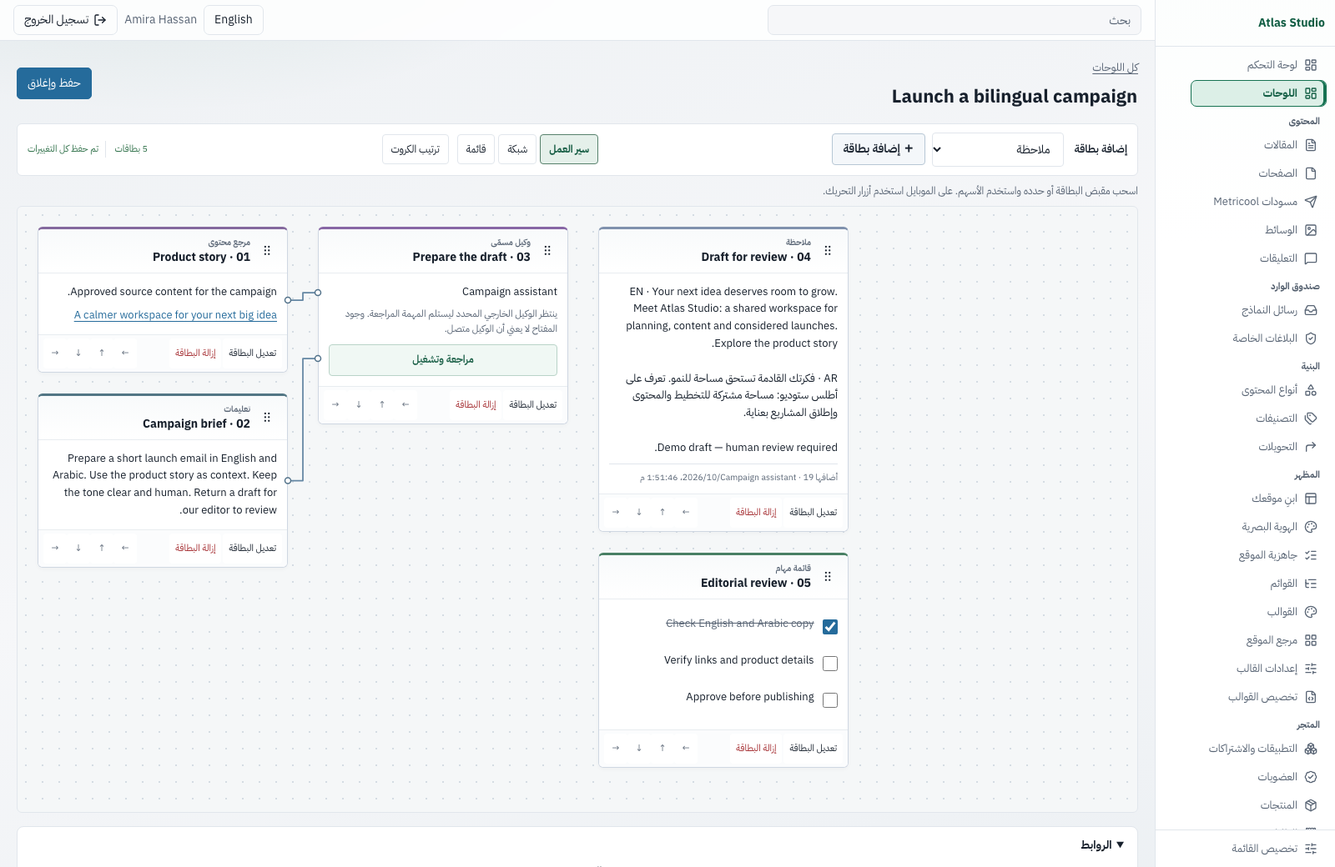
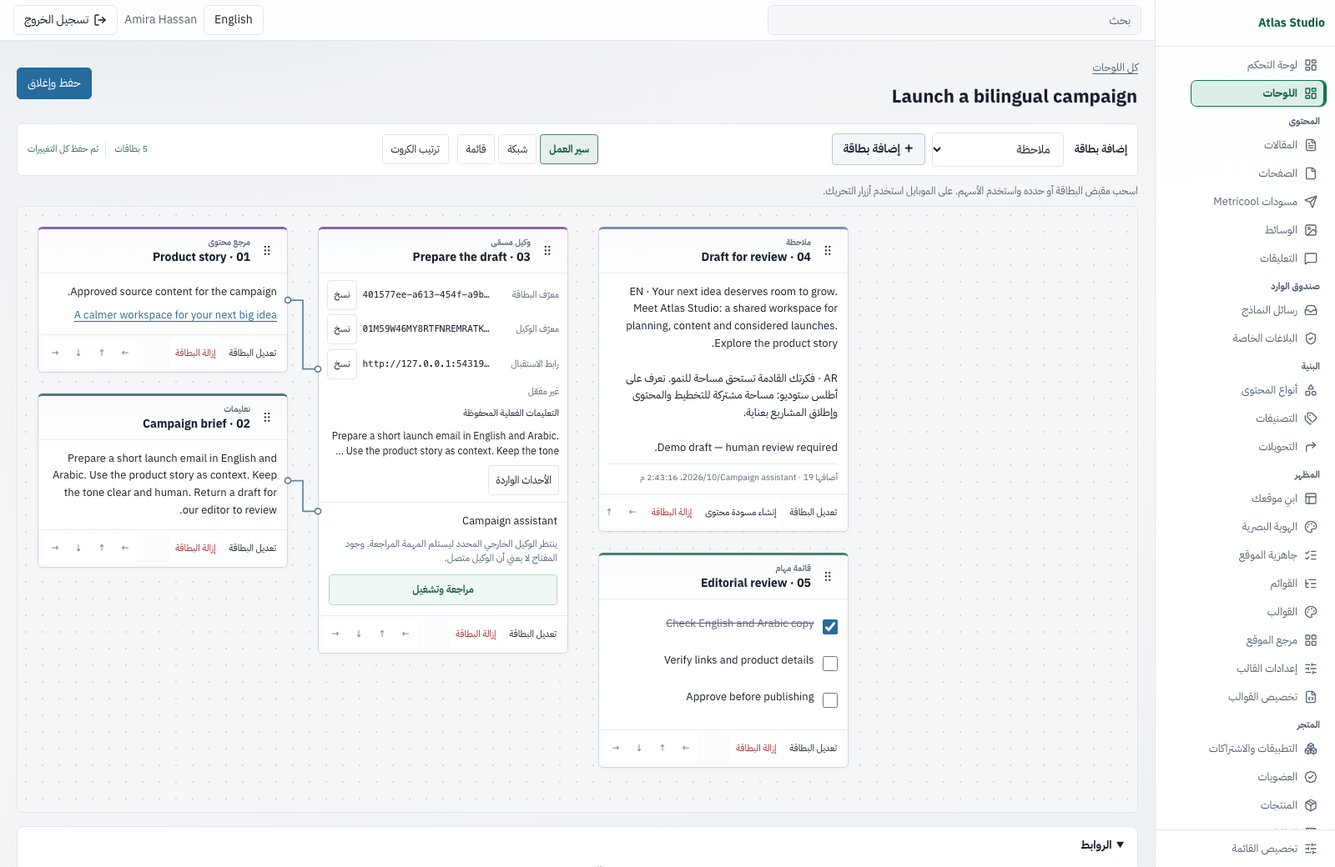
Verify signed event journeys and refresh current canvas documentation screens

diff --git a/web/admin/templates/pages/canvases/editor.html b/web/admin/templates/pages/canvases/editor.html
@@ -13,7 +13,7 @@
 <script defer src="{{asset "canvas.js"}}"></script>
 <section class="canvas-workspace" id="canvas-editor" data-id="{{.Board.ID}}">
  <input type="hidden" name="_csrf" value="{{csrf}}">
- <div hidden data-canvas-labels><span data-label="inbound_settings">{{t "canvasinbound.inbound_settings"}}</span><span data-label="inbound_card_id">{{t "canvasinbound.inbound_card_id"}}</span><span data-label="inbound_agent_id">{{t "canvasinbound.inbound_agent_id"}}</span><span data-label="inbound_provider_id">{{t "canvasinbound.inbound_provider_id"}}</span><span data-label="inbound_model">{{t "canvasinbound.inbound_model"}}</span><span data-label="inbound_webhook">{{t "canvasinbound.inbound_webhook"}}</span><span data-label="inbound_not_selected">{{t "canvasinbound.inbound_not_selected"}}</span><span data-label="inbound_unconfigured">{{t "canvasinbound.inbound_unconfigured"}}</span><span data-label="inbound_enabled">{{t "canvasinbound.inbound_enabled"}}</span><span data-label="inbound_disabled">{{t "canvasinbound.inbound_disabled"}}</span><span data-label="inbound_needs_review">{{t "canvasinbound.inbound_needs_review"}}</span><span data-label="inbound_loading">{{t "canvasinbound.inbound_loading"}}</span><span data-label="inbound_unavailable">{{t "canvasinbound.inbound_unavailable"}}</span><span data-label="inbound_copy">{{t "canvasinbound.inbound_copy"}}</span><span data-label="inbound_copied">{{t "canvasinbound.inbound_copied"}}</span><span data-label="inbound_manual_copy">{{t "canvasinbound.inbound_manual_copy"}}</span><span data-label="inbound_help">{{t "canvasinbound.inbound_help"}}</span><span data-label="inbound_command">{{t "canvasinbound.inbound_command"}}</span><span data-label="inbound_command_help">{{t "canvasinbound.inbound_command_help"}}</span><span data-label="inbound_prompt">{{t "canvasinbound.inbound_prompt"}}</span><span data-label="inbound_prompt_edit_help">{{t "canvasinbound.inbound_prompt_edit_help"}}</span><span data-label="inbound_prompt_graph_help">{{t "canvasinbound.inbound_prompt_graph_help"}}</span><span data-label="inbound_edit_linked_prompt">{{t "canvasinbound.inbound_edit_linked_prompt"}}</span><span data-label="inbound_prompt_required">{{t "canvasinbound.inbound_prompt_required"}}</span><span data-label="inbound_save_disabled">{{t "canvasinbound.inbound_save_disabled"}}</span><span data-label="inbound_review">{{t "canvasinbound.inbound_review"}}</span><span data-label="inbound_review_title">{{t "canvasinbound.inbound_review_title"}}</span><span data-label="inbound_save_first">{{t "canvasinbound.inbound_save_first"}}</span><span data-label="inbound_enable">{{t "canvasinbound.inbound_enable"}}</span><span data-label="inbound_consent">{{t "canvasinbound.inbound_consent"}}</span><span data-label="inbound_disable">{{t "canvasinbound.inbound_disable"}}</span><span data-label="inbound_rotate">{{t "canvasinbound.inbound_rotate"}}</span><span data-label="inbound_rotate_confirm">{{t "canvasinbound.inbound_rotate_confirm"}}</span><span data-label="inbound_secret_title">{{t "canvasinbound.inbound_secret_title"}}</span><span data-label="inbound_signing_secret">{{t "canvasinbound.inbound_signing_secret"}}</span><span data-label="inbound_secret_help">{{t "canvasinbound.inbound_secret_help"}}</span><span data-label="inbound_copy_secret">{{t "canvasinbound.inbound_copy_secret"}}</span><span data-label="inbound_event_body">{{t "canvasinbound.inbound_event_body"}}</span><span data-label="inbound_external_help">{{t "canvasinbound.inbound_external_help"}}</span><span data-label="inbound_managed_help">{{t "canvasinbound.inbound_managed_help"}}</span><span data-label="inbound_error">{{t "canvasinbound.inbound_error"}}</span><span data-label="inbound_changed">{{t "canvasinbound.inbound_changed"}}</span><span data-label="inbound_reauthenticate">{{t "canvasinbound.inbound_reauthenticate"}}</span><span data-label="inbound_sender_guide">{{t "canvasinbound.inbound_sender_guide"}}</span><span data-label="inbound_close">{{t "canvasinbound.inbound_close"}}</span><span data-label="create_draft">{{t "canvaslife.create_draft"}}</span><span data-label="new_draft">{{t "canvaslife.new_draft"}}</span><span data-label="draft_help">{{t "canvaslife.draft_help"}}</span><span data-label="content_type">{{t "canvaslife.content_type"}}</span><span data-label="draft_error">{{t "canvaslife.draft_error"}}</span><span data-label="save_template">{{t "canvaslife.save_template"}}</span><span data-label="templates">{{t "canvaslife.templates"}}</span><span data-label="template_safety">{{t "canvaslife.template_safety"}}</span><span data-label="template_help">{{t "canvaslife.template_help"}}</span><span data-label="template_name">{{t "canvaslife.template_name"}}</span><span data-label="template_board_title">{{t "canvaslife.template_board_title"}}</span><span data-label="templates_empty">{{t "canvaslife.templates_empty"}}</span><span data-label="reuse_template">{{t "canvaslife.reuse_template"}}</span><span data-label="delete_template">{{t "canvaslife.delete_template"}}</span><span data-label="delete_template_confirm">{{t "canvaslife.delete_template_confirm"}}</span><span data-label="template_saved">{{t "canvaslife.template_saved"}}</span><span data-label="lifecycle_error">{{t "canvaslife.lifecycle_error"}}</span><span data-label="cancel_run">{{t "canvasops.cancel_run"}}</span><span data-label="cancel_run_help">{{t "canvasops.cancel_run_help"}}</span><span data-label="cancelled">{{t "canvasops.cancelled"}}</span><span data-label="reviewed">{{t "canvasops.reviewed"}}</span><span data-label="run_stopped">{{t "canvasops.run_stopped"}}</span><span data-label="generation_kind">{{t "canvasops.generation_kind"}}</span><span data-label="text">{{t "canvasops.text"}}</span><span data-label="image">{{t "canvasops.image"}}</span><span data-label="video">{{t "canvasops.video"}}</span><span data-label="render">{{t "canvasops.render"}}</span><span data-label="preset_skill">{{t "canvasops.preset_skill"}}</span><span data-label="no_skill">{{t "canvasops.no_skill"}}</span><span data-label="result">{{t "canvasops.result"}}</span><span data-label="waiting">{{t "canvasops.waiting"}}</span><span data-label="check_result">{{t "canvasops.check_result"}}</span><span data-label="private_media">{{t "canvasops.private_media"}}</span><span data-label="media_error">{{t "canvasops.media_error"}}</span><span data-label="configure_destinations">{{t "canvasops.configure_destinations"}}</span><span data-label="preset">{{t "canvasops.preset"}}</span><span data-label="blank">{{t "canvasops.blank"}}</span><span data-label="ask-content">{{t "canvasops.ask-content"}}</span><span data-label="prepublish-review">{{t "canvasops.prepublish-review"}}</span><span data-label="social-drafts">{{t "canvasops.social-drafts"}}</span><span data-label="periodic-brief">{{t "canvasops.periodic-brief"}}</span><span data-label="evidence-worksheet">{{t "canvasops.evidence-worksheet"}}</span><span data-label="story-video">{{t "canvasops.story-video"}}</span><span data-label="preset_help">{{t "canvasops.preset_help"}}</span><span data-label="apply_preset">{{t "canvasops.apply_preset"}}</span><span data-label="preset_target">{{t "canvasops.preset_target"}}</span><span data-label="preset_ready">{{t "canvasops.preset_ready"}}</span><span data-label="preset_incomplete">{{t "canvasops.preset_incomplete"}}</span><span data-label="operations">{{t "canvasops.operations"}}</span><span data-label="ops_source">{{t "canvasops.ops_source"}}</span><span data-label="prompt">{{t "canvasops.prompt"}}</span><span data-label="provider">{{t "canvasops.provider"}}</span><span data-label="agent">{{t "canvasops.agent"}}</span><span data-label="schedule">{{t "canvasops.schedule"}}</span><span data-label="source_type">{{t "canvasops.source_type"}}</span><span data-label="source_limit">{{t "canvasops.source_limit"}}</span><span data-label="source_help">{{t "canvasops.source_help"}}</span><span data-label="provider_help">{{t "canvasops.provider_help"}}</span><span data-label="agent_help">{{t "canvasops.agent_help"}}</span><span data-label="interval">{{t "canvasops.interval"}}</span><span data-label="hourly">{{t "canvasops.hourly"}}</span><span data-label="daily">{{t "canvasops.daily"}}</span><span data-label="weekly">{{t "canvasops.weekly"}}</span><span data-label="schedule_help">{{t "canvasops.schedule_help"}}</span><span data-label="connections">{{t "canvasops.connections"}}</span><span data-label="from">{{t "canvasops.from"}}</span><span data-label="to">{{t "canvasops.to"}}</span><span data-label="connect">{{t "canvasops.connect"}}</span><span data-label="disconnect">{{t "canvasops.disconnect"}}</span><span data-label="no_connections">{{t "canvasops.no_connections"}}</span><span data-label="connection_error">{{t "canvasops.connection_error"}}</span><span data-label="review_run">{{t "canvasops.review_run"}}</span><span data-label="review">{{t "canvasops.review"}}</span><span data-label="destination">{{t "canvasops.destination"}}</span><span data-label="context">{{t "canvasops.context"}}</span><span data-label="run">{{t "canvasops.run"}}</span><span data-label="consent">{{t "canvasops.consent"}}</span><span data-label="enable_schedule">{{t "canvasops.enable_schedule"}}</span><span data-label="disable_schedule">{{t "canvasops.disable_schedule"}}</span><span data-label="recurring_consent">{{t "canvasops.recurring_consent"}}</span><span data-label="history">{{t "canvasops.history"}}</span><span data-label="no_runs">{{t "canvasops.no_runs"}}</span><span data-label="refresh_runs">{{t "canvasops.refresh_runs"}}</span><span data-label="requested">{{t "canvasops.requested"}}</span><span data-label="waiting_agent">{{t "canvasops.waiting_agent"}}</span><span data-label="queued">{{t "canvasops.queued"}}</span><span data-label="running">{{t "canvasops.running"}}</span><span data-label="succeeded">{{t "canvasops.succeeded"}}</span><span data-label="failed">{{t "canvasops.failed"}}</span><span data-label="uncertain">{{t "canvasops.uncertain"}}</span><span data-label="show_result">{{t "canvasops.show_result"}}</span><span data-label="disabled">{{t "canvasops.disabled"}}</span><span data-label="enabled">{{t "canvasops.enabled"}}</span><span data-label="needs_review">{{t "canvasops.needs_review"}}</span><span data-label="sharing">{{t "canvasops.sharing"}}</span><span data-label="sharing_help">{{t "canvasops.sharing_help"}}</span><span data-label="shared_nodes">{{t "canvasops.shared_nodes"}}</span><span data-label="read_grant">{{t "canvasops.read_grant"}}</span><span data-label="append_grant">{{t "canvasops.append_grant"}}</span><span data-label="run_grant">{{t "canvasops.run_grant"}}</span><span data-label="save_grant">{{t "canvasops.save_grant"}}</span><span data-label="revoke_grant">{{t "canvasops.revoke_grant"}}</span><span data-label="grant_saved">{{t "canvasops.grant_saved"}}</span><span data-label="unconfigured">{{t "canvasops.unconfigured"}}</span><span data-label="operations_error">{{t "canvasops.operations_error"}}</span><span data-label="operations_loading">{{t "canvasops.operations_loading"}}</span><span data-label="save_first">{{t "canvasops.save_first"}}</span><span data-label="reload_result">{{t "canvasops.reload_result"}}</span><span data-label="attributed">{{t "canvasops.attributed"}}</span><span data-label="schedule_inactive">{{t "canvasops.schedule_inactive"}}</span><span data-label="none">{{t "canvasops.none"}}</span><span data-label="run_confirmed">{{t "canvasops.run_confirmed"}}</span> <span data-label="title">{{t "admin.canvas.title"}}</span>
+ <div hidden data-canvas-labels><span data-label="inbound_effective_prompt">{{t "canvasinbound.inbound_effective_prompt"}}</span><span data-label="inbound_settings">{{t "canvasinbound.inbound_settings"}}</span><span data-label="inbound_card_id">{{t "canvasinbound.inbound_card_id"}}</span><span data-label="inbound_agent_id">{{t "canvasinbound.inbound_agent_id"}}</span><span data-label="inbound_provider_id">{{t "canvasinbound.inbound_provider_id"}}</span><span data-label="inbound_model">{{t "canvasinbound.inbound_model"}}</span><span data-label="inbound_webhook">{{t "canvasinbound.inbound_webhook"}}</span><span data-label="inbound_not_selected">{{t "canvasinbound.inbound_not_selected"}}</span><span data-label="inbound_unconfigured">{{t "canvasinbound.inbound_unconfigured"}}</span><span data-label="inbound_enabled">{{t "canvasinbound.inbound_enabled"}}</span><span data-label="inbound_disabled">{{t "canvasinbound.inbound_disabled"}}</span><span data-label="inbound_needs_review">{{t "canvasinbound.inbound_needs_review"}}</span><span data-label="inbound_loading">{{t "canvasinbound.inbound_loading"}}</span><span data-label="inbound_unavailable">{{t "canvasinbound.inbound_unavailable"}}</span><span data-label="inbound_copy">{{t "canvasinbound.inbound_copy"}}</span><span data-label="inbound_copied">{{t "canvasinbound.inbound_copied"}}</span><span data-label="inbound_manual_copy">{{t "canvasinbound.inbound_manual_copy"}}</span><span data-label="inbound_help">{{t "canvasinbound.inbound_help"}}</span><span data-label="inbound_command">{{t "canvasinbound.inbound_command"}}</span><span data-label="inbound_command_help">{{t "canvasinbound.inbound_command_help"}}</span><span data-label="inbound_prompt">{{t "canvasinbound.inbound_prompt"}}</span><span data-label="inbound_prompt_edit_help">{{t "canvasinbound.inbound_prompt_edit_help"}}</span><span data-label="inbound_prompt_graph_help">{{t "canvasinbound.inbound_prompt_graph_help"}}</span><span data-label="inbound_edit_linked_prompt">{{t "canvasinbound.inbound_edit_linked_prompt"}}</span><span data-label="inbound_prompt_required">{{t "canvasinbound.inbound_prompt_required"}}</span><span data-label="inbound_save_disabled">{{t "canvasinbound.inbound_save_disabled"}}</span><span data-label="inbound_review">{{t "canvasinbound.inbound_review"}}</span><span data-label="inbound_review_title">{{t "canvasinbound.inbound_review_title"}}</span><span data-label="inbound_save_first">{{t "canvasinbound.inbound_save_first"}}</span><span data-label="inbound_enable">{{t "canvasinbound.inbound_enable"}}</span><span data-label="inbound_consent">{{t "canvasinbound.inbound_consent"}}</span><span data-label="inbound_disable">{{t "canvasinbound.inbound_disable"}}</span><span data-label="inbound_rotate">{{t "canvasinbound.inbound_rotate"}}</span><span data-label="inbound_rotate_confirm">{{t "canvasinbound.inbound_rotate_confirm"}}</span><span data-label="inbound_secret_title">{{t "canvasinbound.inbound_secret_title"}}</span><span data-label="inbound_signing_secret">{{t "canvasinbound.inbound_signing_secret"}}</span><span data-label="inbound_secret_help">{{t "canvasinbound.inbound_secret_help"}}</span><span data-label="inbound_copy_secret">{{t "canvasinbound.inbound_copy_secret"}}</span><span data-label="inbound_event_body">{{t "canvasinbound.inbound_event_body"}}</span><span data-label="inbound_external_help">{{t "canvasinbound.inbound_external_help"}}</span><span data-label="inbound_managed_help">{{t "canvasinbound.inbound_managed_help"}}</span><span data-label="inbound_error">{{t "canvasinbound.inbound_error"}}</span><span data-label="inbound_changed">{{t "canvasinbound.inbound_changed"}}</span><span data-label="inbound_reauthenticate">{{t "canvasinbound.inbound_reauthenticate"}}</span><span data-label="inbound_sender_guide">{{t "canvasinbound.inbound_sender_guide"}}</span><span data-label="inbound_close">{{t "canvasinbound.inbound_close"}}</span><span data-label="create_draft">{{t "canvaslife.create_draft"}}</span><span data-label="new_draft">{{t "canvaslife.new_draft"}}</span><span data-label="draft_help">{{t "canvaslife.draft_help"}}</span><span data-label="content_type">{{t "canvaslife.content_type"}}</span><span data-label="draft_error">{{t "canvaslife.draft_error"}}</span><span data-label="save_template">{{t "canvaslife.save_template"}}</span><span data-label="templates">{{t "canvaslife.templates"}}</span><span data-label="template_safety">{{t "canvaslife.template_safety"}}</span><span data-label="template_help">{{t "canvaslife.template_help"}}</span><span data-label="template_name">{{t "canvaslife.template_name"}}</span><span data-label="template_board_title">{{t "canvaslife.template_board_title"}}</span><span data-label="templates_empty">{{t "canvaslife.templates_empty"}}</span><span data-label="reuse_template">{{t "canvaslife.reuse_template"}}</span><span data-label="delete_template">{{t "canvaslife.delete_template"}}</span><span data-label="delete_template_confirm">{{t "canvaslife.delete_template_confirm"}}</span><span data-label="template_saved">{{t "canvaslife.template_saved"}}</span><span data-label="lifecycle_error">{{t "canvaslife.lifecycle_error"}}</span><span data-label="cancel_run">{{t "canvasops.cancel_run"}}</span><span data-label="cancel_run_help">{{t "canvasops.cancel_run_help"}}</span><span data-label="cancelled">{{t "canvasops.cancelled"}}</span><span data-label="reviewed">{{t "canvasops.reviewed"}}</span><span data-label="run_stopped">{{t "canvasops.run_stopped"}}</span><span data-label="generation_kind">{{t "canvasops.generation_kind"}}</span><span data-label="text">{{t "canvasops.text"}}</span><span data-label="image">{{t "canvasops.image"}}</span><span data-label="video">{{t "canvasops.video"}}</span><span data-label="render">{{t "canvasops.render"}}</span><span data-label="preset_skill">{{t "canvasops.preset_skill"}}</span><span data-label="no_skill">{{t "canvasops.no_skill"}}</span><span data-label="result">{{t "canvasops.result"}}</span><span data-label="waiting">{{t "canvasops.waiting"}}</span><span data-label="check_result">{{t "canvasops.check_result"}}</span><span data-label="private_media">{{t "canvasops.private_media"}}</span><span data-label="media_error">{{t "canvasops.media_error"}}</span><span data-label="configure_destinations">{{t "canvasops.configure_destinations"}}</span><span data-label="preset">{{t "canvasops.preset"}}</span><span data-label="blank">{{t "canvasops.blank"}}</span><span data-label="ask-content">{{t "canvasops.ask-content"}}</span><span data-label="prepublish-review">{{t "canvasops.prepublish-review"}}</span><span data-label="social-drafts">{{t "canvasops.social-drafts"}}</span><span data-label="periodic-brief">{{t "canvasops.periodic-brief"}}</span><span data-label="evidence-worksheet">{{t "canvasops.evidence-worksheet"}}</span><span data-label="story-video">{{t "canvasops.story-video"}}</span><span data-label="preset_help">{{t "canvasops.preset_help"}}</span><span data-label="apply_preset">{{t "canvasops.apply_preset"}}</span><span data-label="preset_target">{{t "canvasops.preset_target"}}</span><span data-label="preset_ready">{{t "canvasops.preset_ready"}}</span><span data-label="preset_incomplete">{{t "canvasops.preset_incomplete"}}</span><span data-label="operations">{{t "canvasops.operations"}}</span><span data-label="ops_source">{{t "canvasops.ops_source"}}</span><span data-label="prompt">{{t "canvasops.prompt"}}</span><span data-label="provider">{{t "canvasops.provider"}}</span><span data-label="agent">{{t "canvasops.agent"}}</span><span data-label="schedule">{{t "canvasops.schedule"}}</span><span data-label="source_type">{{t "canvasops.source_type"}}</span><span data-label="source_limit">{{t "canvasops.source_limit"}}</span><span data-label="source_help">{{t "canvasops.source_help"}}</span><span data-label="provider_help">{{t "canvasops.provider_help"}}</span><span data-label="agent_help">{{t "canvasops.agent_help"}}</span><span data-label="interval">{{t "canvasops.interval"}}</span><span data-label="hourly">{{t "canvasops.hourly"}}</span><span data-label="daily">{{t "canvasops.daily"}}</span><span data-label="weekly">{{t "canvasops.weekly"}}</span><span data-label="schedule_help">{{t "canvasops.schedule_help"}}</span><span data-label="connections">{{t "canvasops.connections"}}</span><span data-label="from">{{t "canvasops.from"}}</span><span data-label="to">{{t "canvasops.to"}}</span><span data-label="connect">{{t "canvasops.connect"}}</span><span data-label="disconnect">{{t "canvasops.disconnect"}}</span><span data-label="no_connections">{{t "canvasops.no_connections"}}</span><span data-label="connection_error">{{t "canvasops.connection_error"}}</span><span data-label="review_run">{{t "canvasops.review_run"}}</span><span data-label="review">{{t "canvasops.review"}}</span><span data-label="destination">{{t "canvasops.destination"}}</span><span data-label="context">{{t "canvasops.context"}}</span><span data-label="run">{{t "canvasops.run"}}</span><span data-label="consent">{{t "canvasops.consent"}}</span><span data-label="enable_schedule">{{t "canvasops.enable_schedule"}}</span><span data-label="disable_schedule">{{t "canvasops.disable_schedule"}}</span><span data-label="recurring_consent">{{t "canvasops.recurring_consent"}}</span><span data-label="history">{{t "canvasops.history"}}</span><span data-label="no_runs">{{t "canvasops.no_runs"}}</span><span data-label="refresh_runs">{{t "canvasops.refresh_runs"}}</span><span data-label="requested">{{t "canvasops.requested"}}</span><span data-label="waiting_agent">{{t "canvasops.waiting_agent"}}</span><span data-label="queued">{{t "canvasops.queued"}}</span><span data-label="running">{{t "canvasops.running"}}</span><span data-label="succeeded">{{t "canvasops.succeeded"}}</span><span data-label="failed">{{t "canvasops.failed"}}</span><span data-label="uncertain">{{t "canvasops.uncertain"}}</span><span data-label="show_result">{{t "canvasops.show_result"}}</span><span data-label="disabled">{{t "canvasops.disabled"}}</span><span data-label="enabled">{{t "canvasops.enabled"}}</span><span data-label="needs_review">{{t "canvasops.needs_review"}}</span><span data-label="sharing">{{t "canvasops.sharing"}}</span><span data-label="sharing_help">{{t "canvasops.sharing_help"}}</span><span data-label="shared_nodes">{{t "canvasops.shared_nodes"}}</span><span data-label="read_grant">{{t "canvasops.read_grant"}}</span><span data-label="append_grant">{{t "canvasops.append_grant"}}</span><span data-label="run_grant">{{t "canvasops.run_grant"}}</span><span data-label="save_grant">{{t "canvasops.save_grant"}}</span><span data-label="revoke_grant">{{t "canvasops.revoke_grant"}}</span><span data-label="grant_saved">{{t "canvasops.grant_saved"}}</span><span data-label="unconfigured">{{t "canvasops.unconfigured"}}</span><span data-label="operations_error">{{t "canvasops.operations_error"}}</span><span data-label="operations_loading">{{t "canvasops.operations_loading"}}</span><span data-label="save_first">{{t "canvasops.save_first"}}</span><span data-label="reload_result">{{t "canvasops.reload_result"}}</span><span data-label="attributed">{{t "canvasops.attributed"}}</span><span data-label="schedule_inactive">{{t "canvasops.schedule_inactive"}}</span><span data-label="none">{{t "canvasops.none"}}</span><span data-label="run_confirmed">{{t "canvasops.run_confirmed"}}</span> <span data-label="title">{{t "admin.canvas.title"}}</span>
  <span data-label="description">{{t "admin.canvas.description"}}</span>
  <span data-label="create">{{t "admin.canvas.create"}}</span>
  <span data-label="board_title">{{t "admin.canvas.board_title"}}</span>

diff --git a/e2e/tests/canvas-inbound.spec.ts b/e2e/tests/canvas-inbound.spec.ts
@@ -1,0 +1,44 @@
+import {test,expect} from '@playwright/test';
+import {createServer} from 'node:http';
+import {createHmac,randomUUID} from 'node:crypto';
+import {ADMIN,csrf,db,setLocale} from '../lib/helpers.ts';
+
+test('reviewed signed event runs managed text once as a private result and stays owner-isolated',async({page})=>{
+ const initialDB=db(),publishedBefore=(initialDB.prepare("SELECT count(*) n FROM content WHERE status='published'").get() as {n:number}).n;
+ const previousAI=initialDB.prepare("SELECT key,value_json,updated_at FROM settings WHERE key LIKE 'ai.%'").all();initialDB.close();
+ let calls=0;
+ const model=createServer(async(request,response)=>{for await(const _ of request){}calls++;response.writeHead(200,{'Content-Type':'application/json'});response.end(JSON.stringify({choices:[{message:{role:'assistant',content:'Synthetic editorial draft from the reviewed signed event.'},finish_reason:'stop'}]}));});
+ await new Promise<void>(resolve=>model.listen(0,'127.0.0.1',resolve));
+ const address=model.address() as {port:number};
+ try{
+  await page.goto('/admin/settings/ai');await setLocale(page,'en');
+  const setup=await page.request.post('/admin/settings/ai',{form:{_csrf:await csrf(page),edit_token:await page.locator('input[name=edit_token]').inputValue(),provider:'openai',base_url:`http://127.0.0.1:${address.port}/v1`,model:'synthetic-editor-model'},maxRedirects:0});expect(setup.status()).toBe(303);
+  await page.goto('/admin/canvases');await page.locator('#new-canvas-title').fill('Signed editorial workflow');await page.locator('form[action="/admin/canvases"] [type=submit]').click();await expect(page).toHaveURL(/\/admin\/canvases\/[A-Z0-9]{26}$/);
+  const path=new URL(page.url()).pathname,board=path.split('/').pop()!,promptID=randomUUID(),targetID=randomUUID();
+  const token=await csrf(page),cards=[{id:promptID,kind:'prompt',title:'Reviewed instructions',body:'Prepare a short editorial draft. Keep the result private for human review.',x:24,y:24},{id:targetID,kind:'provider',title:'Managed editorial writer',provider_id:'native-text',generation_kind:'text',body:'',x:420,y:24}];
+  expect((await page.request.post(path+'/document',{headers:{'X-CSRF-Token':token},data:{version:1,title:'Signed editorial workflow',cards,edges:[{from:promptID,to:targetID}]}})).status()).toBe(200);
+  await page.reload();const card=page.locator(`[data-card-id="${targetID}"]`);await expect(card.locator('.canvas-inbound-prompt-preview')).toContainText('Keep the result private');
+  await card.locator('[data-inbound-open]').click();const dialog=page.locator('.canvas-inbound-dialog');await dialog.locator('[name=inbound_command]').fill('editorial-draft');await dialog.getByRole('button',{name:'Save disabled',exact:true}).click();
+  const secrets=page.locator('.canvas-inbound-secret');await expect(secrets).toBeVisible();let secret=await secrets.locator('textarea').inputValue();expect(secret.length).toBe(64);await secrets.getByRole('button',{name:'Close',exact:true}).click();await expect(secrets.locator('textarea')).toHaveValue('');
+  const metadata=await(await page.request.get(path+`/cards/${targetID}/inbound`)).json();expect(metadata.secret).toBeUndefined();expect(metadata.inbound.enabled).toBe(false);expect(metadata.inbound.execution_mode).toBe('provider');
+  const endpoint=metadata.inbound.endpoint_path;
+  const send=async(delivery:string,signingSecret=secret)=>{const body=JSON.stringify({command:'editorial-draft'}),timestamp=String(Math.floor(Date.now()/1000));const signature=createHmac('sha256',signingSecret).update(timestamp+'.'+delivery+'.'+body).digest('hex');return fetch(new URL(endpoint,page.url()),{method:'POST',headers:{'Content-Type':'application/json','X-GoRun-Timestamp':timestamp,'X-GoRun-Delivery':delivery,'X-GoRun-Signature':'sha256='+signature},body});};
+  expect((await send('before_enable_'+randomUUID())).status).toBe(409);expect(calls).toBe(0);
+  await dialog.getByRole('button',{name:'Review action',exact:true}).click();await expect(dialog.locator('.canvas-inbound-review')).toContainText('Keep the result private for human review.');await expect(dialog.locator('[data-inbound-enable]')).toBeDisabled();await dialog.locator('[data-inbound-consent]').check();await dialog.locator('[data-inbound-enable]').click();await expect(dialog.locator('.canvas-inbound-summary')).toContainText('Enabled for reviewed action');
+  const delivery='accepted_'+randomUUID();expect((await send(delivery)).status).toBe(202);
+  await expect.poll(async()=>{const data=await(await page.request.get(path+'/document')).json();return data.cards.some((c:any)=>c.kind==='note'&&c.body==='Synthetic editorial draft from the reviewed signed event.');},{timeout:20000}).toBe(true);
+  expect((await send(delivery)).status).toBe(200);expect(calls).toBe(1);
+  const database=db();expect((database.prepare('SELECT count(*) n FROM content WHERE status=\'published\'').get() as {n:number}).n).toBe(publishedBefore);
+  const draftMapping=database.prepare('SELECT id FROM admin_canvases WHERE id=?').get(board);expect(draftMapping).toBeTruthy();
+  const owner=database.prepare('SELECT id,password_hash FROM users WHERE email=?').get(ADMIN.email) as {id:string,password_hash:string};const otherID=randomUUID(),email=`isolated-${otherID}@e2e.test`,now=new Date().toISOString();database.prepare("INSERT INTO users(id,email,name,password_hash,role,locale,created_at,updated_at) VALUES(?,?,?,?,'editor','en',?,?)").run(otherID,email,'Other editor',owner.password_hash,now,now);
+  const isolated=await page.context().browser()!.newContext({baseURL:new URL(page.url()).origin,storageState:{cookies:[],origins:[]}});
+  try{const other=await isolated.newPage();await other.goto('/admin/login');await other.locator('[name=email]').fill(email);await other.locator('[name=password]').fill(ADMIN.password);await other.locator('form[action^="/admin/login"] [type=submit]').click();await expect(other).toHaveURL(/\/admin\/?$/);expect((await other.request.get(path+`/cards/${targetID}/inbound`)).status()).toBe(404);expect((await other.request.get(path+'/document')).status()).toBe(404);}finally{await isolated.close();database.prepare('DELETE FROM users WHERE id=?').run(otherID);database.close();}
+  await dialog.getByRole('button',{name:'Disable',exact:true}).click();expect((await send('disabled_'+randomUUID())).status).toBe(409);
+  page.once('dialog',dialog=>dialog.accept());await dialog.getByRole('button',{name:'Rotate signing secret',exact:true}).click();await expect(secrets).toBeVisible();const replacement=await secrets.locator('textarea').inputValue();expect(replacement).not.toBe(secret);await secrets.getByRole('button',{name:'Close',exact:true}).click();expect((await send('old_secret_'+randomUUID())).status).toBe(401);secret='';await expect(secrets.locator('textarea')).toHaveValue('');
+  // Structural reuse must not carry the receiver, signing secret or consent.
+  const templateResponse=await page.request.post(path+'/template',{headers:{'X-CSRF-Token':token},form:{title:'Reusable editorial structure'}});expect(templateResponse.status()).toBe(201);const template=await templateResponse.json();
+  const reuse=await page.request.post('/admin/canvas-templates/'+template.id+'/reuse',{headers:{'X-CSRF-Token':token},form:{title:'Fresh editorial structure'}});expect(reuse.status()).toBe(201);const fresh=await reuse.json();
+  const cloned=await(await page.request.get(fresh.href+'/document')).json(),clonedTarget=cloned.cards.find((c:any)=>c.kind==='provider');expect(clonedTarget.provider_id).toBeUndefined();
+  const clean=await(await page.request.get(fresh.href+'/cards/'+clonedTarget.id+'/inbound')).json();expect(clean.inbound.id).toBe('');expect(clean.inbound.enabled).toBe(false);expect(clean.inbound.endpoint).toBe('');expect(clean.secret).toBeUndefined();
+ }finally{const restore=db();restore.prepare("DELETE FROM settings WHERE key LIKE 'ai.%'").run();for(const row of previousAI as any[])restore.prepare('INSERT INTO settings(key,value_json,updated_at) VALUES(?,?,?)').run(row.key,row.value_json,row.updated_at);restore.close();await new Promise<void>(resolve=>model.close(()=>resolve()));}
+});

diff --git a/web/admin/static/canvas-inbound.js b/web/admin/static/canvas-inbound.js
@@ -4,7 +4,8 @@
   function create(api) {
     const {root, t, element:el, button:btn, request, csrf, save, changed} = api;
     const records=new Map(), generations=new Map(), endpointBase=`/admin/canvases/${encodeURIComponent(root.dataset.id)}/cards/`;
-    let selected='', review=null, busy=false;
+    let selected='', review=null, busy=false, lastAuthorityShape='';
+    const authorityShape=()=>JSON.stringify({cards:(api.document()?.cards||[]).map(({x,y,...card})=>card),edges:api.document()?.edges||[]});
     const dialog=el('dialog',undefined,'canvas-dialog canvas-inbound-dialog');dialog.setAttribute('aria-labelledby','canvas-inbound-title');root.append(dialog);
     const secretDialog=el('dialog',undefined,'canvas-dialog canvas-inbound-secret');secretDialog.setAttribute('aria-labelledby','canvas-inbound-secret-title');root.append(secretDialog);
     const secretHeading=el('h2',t('inbound_secret_title'));secretHeading.id='canvas-inbound-secret-title';
@@ -61,7 +62,8 @@
       if(data?.model)container.append(line(t('inbound_model'),data.model,false));
       const url=endpoint(data);container.append(line(t('inbound_webhook'),url||'',!!url));
       const state=el('span',record?.error?t('inbound_unavailable'):record?.pending?t('inbound_loading'):statusText(data),'canvas-inbound-state');state.dataset.inboundState=data?.status==='needs_review'?'needs_review':data?.enabled?'enabled':data?.status||'unconfigured';container.append(state);
-      const prompts=promptsFor(card);if(prompts.length){const sample=el('p',prompts.map(node=>node.body).join('\n\n'),'canvas-inbound-prompt-preview');sample.title=t('inbound_prompt');container.append(sample);}
+      const prompts=promptsFor(card),effective=typeof data?.prompt==='string'&&data.prompt.trim()?data.prompt:'';
+      const promptText=effective||prompts.map(node=>node.body).join('\n\n');if(promptText){const promptLabel=t(effective?'inbound_effective_prompt':'inbound_prompt');const sample=el('p',promptText,'canvas-inbound-prompt-preview');sample.title=promptLabel;container.append(el('small',promptLabel),sample);}
       const open=btn(t('inbound_settings'),()=>action(()=>openSettings(card.id)));open.dataset.inboundOpen=card.id;container.append(open);
     }
     function repaint(){for(const box of root.querySelectorAll('[data-inbound-card]')){const card=api.document()?.cards.find(node=>node.id===box.dataset.inboundCard);if(card)paint(box,card);}}
@@ -129,8 +131,8 @@
       finally{busy=false;dialog.removeAttribute('aria-busy');dismiss.disabled=false;configure.disabled=false;const data=selected?records.get(selected)?.data:null;preview.disabled=!data?.id;disable.disabled=!data?.enabled;rotate.disabled=!data?.id;}
     }
     return {
-      cardHeader(card){if(!['agent','provider'].includes(card.kind))return null;const box=el('section',undefined,'canvas-inbound-card');box.dataset.inboundCard=card.id;paint(box,card);fetchMetadata(card);return box;},
-      saved(){for(const card of api.document()?.cards||[])if(['agent','provider'].includes(card.kind)){generations.set(card.id,(generations.get(card.id)||0)+1);records.delete(card.id);fetchMetadata(card,true);}}
+      cardHeader(card){if(!['agent','provider'].includes(card.kind))return null;if(!lastAuthorityShape)lastAuthorityShape=authorityShape();const box=el('section',undefined,'canvas-inbound-card');box.dataset.inboundCard=card.id;paint(box,card);fetchMetadata(card);return box;},
+      saved(){const shape=authorityShape();if(shape===lastAuthorityShape)return;lastAuthorityShape=shape;for(const card of api.document()?.cards||[])if(['agent','provider'].includes(card.kind)){generations.set(card.id,(generations.get(card.id)||0)+1);records.delete(card.id);fetchMetadata(card,true);}}
     };
   }
 })();

diff --git a/e2e/tests/canvas-inbound-ui.spec.ts b/e2e/tests/canvas-inbound-ui.spec.ts
@@ -11,7 +11,7 @@ test('incoming-event UI distinguishes identifiers, requires review and clears on
  const cards=[{id:promptID,kind:'prompt',title:'Editorial instructions',body:'Summarize approved campaign updates.',x:24,y:24},{id:agentID,kind:'agent',title:'Editorial assistant',body:'',agent_id:keyID,x:400,y:24},{id:providerID,kind:'provider',title:'Managed writer',body:'',provider_id:'native-text',generation_kind:'text',x:760,y:24}];
  const payload={version:1,title:'Weekly editorial briefing',cards,edges:[{from:promptID,to:agentID},{from:promptID,to:providerID}]};
  expect((await page.request.post(path+'/document',{data:payload,headers:{'X-CSRF-Token':await csrf(page)}})).status()).toBe(200);
- let state:any={id:'',node_id:agentID,agent_id:keyID,provider_id:'',command:'',enabled:false,status:'unconfigured',revision:0,execution_mode:'external',can_manage:true,endpoint:'',endpoint_path:''};
+ let state:any={id:'',node_id:agentID,agent_id:keyID,provider_id:'',command:'',enabled:false,status:'unconfigured',revision:0,execution_mode:'external',prompt:'PRESET · Follow the saved editorial policy.\n\nSummarize approved campaign updates.',can_manage:true,endpoint:'',endpoint_path:''};
  let rotations=0;
  await page.route('**/admin/canvases/*/cards/*/inbound',async route=>{
   const node=route.request().url().split('/').at(-2);
@@ -27,8 +27,8 @@ test('incoming-event UI distinguishes identifiers, requires review and clears on
  });
  await page.reload();
  const card=page.locator(`[data-card-id="${agentID}"]`);
- await expect(card.locator('.canvas-inbound-card')).toContainText('Card ID');await expect(card.locator('.canvas-inbound-card')).toContainText(agentID);await expect(card.locator('.canvas-inbound-card')).toContainText(keyID);
- await card.locator('[data-inbound-open]').click();const dialog=page.locator('.canvas-inbound-dialog');await expect(dialog).toContainText('MCP client must stay connected');
+ await expect(card.locator('.canvas-inbound-card')).toContainText('Card ID');await expect(card.locator('.canvas-inbound-card')).toContainText(agentID);await expect(card.locator('.canvas-inbound-card')).toContainText(keyID);await expect(card.locator('.canvas-inbound-prompt-preview')).toContainText('PRESET · Follow the saved editorial policy.');
+ await card.locator('[data-inbound-open]').click();const dialog=page.locator('.canvas-inbound-dialog');await expect(dialog).toContainText('MCP client must stay connected');await expect(dialog.locator('[name=inbound_prompt]')).not.toHaveValue(/PRESET/);
  await dialog.locator('[name=inbound_command]').fill('weekly-summary');await dialog.locator('[name=inbound_prompt]').fill('Summarize approved campaign updates as a private draft.');
  await dialog.getByRole('button',{name:'Save disabled',exact:true}).click();
  const secretDialog=page.locator('.canvas-inbound-secret');await expect(secretDialog).toBeVisible();await expect(secretDialog.locator('textarea')).toHaveValue('SYNTHETIC_ONE_TIME_SIGNING_SECRET');

diff --git a/e2e/tests/readme-screenshots.spec.ts b/e2e/tests/readme-screenshots.spec.ts
@@ -21,6 +21,7 @@ test('capture current README product screens with synthetic campaign data', asyn
   const errors: string[]=[];
   page.on('pageerror',e=>errors.push(e.message));
   async function shot(name:string,fullPage=false) {
+    if(process.env.README_CANVAS_ONLY==='1'&&!name.startsWith('canvas-'))return;
     await page.waitForLoadState('networkidle');
     await page.evaluate(()=>document.fonts.ready);
     await expect(page.locator('body')).not.toContainText('Internal Server Error');
@@ -111,6 +112,9 @@ test('capture current README product screens with synthetic campaign data', asyn
   }
   await boardPost('/document',{title:'Launch a bilingual campaign',version:1,cards,edges:[{from:sourceID,to:actorID},{from:promptID,to:actorID}]});
   await boardPost('/operations/grants',{agent_id:agentID,read:true,append:true,run:true,node_ids:[sourceID,promptID]});
+  // A real signed receiver, deliberately disabled; its one-time signing secret
+  // is never inserted into the page or captured in documentation screenshots.
+  await boardPost(`/cards/${actorID}/inbound`,{action:'configure',command:'prepare-campaign-draft'});
   await page.reload();
   await expect(page.locator('.canvas-card')).toHaveCount(4);
   await page.locator('[data-action=arrange]').click();

diff --git a/docs/CANVASES.md b/docs/CANVASES.md
@@ -98,3 +98,38 @@ select content, agents and providers explicitly. No run history, sharing grants,
 consent records or enabled schedules are inherited. A schedule-shaped card may
 remain as part of the structure, but it has no active automation until the new
 workflow is configured, reviewed and explicitly enabled.
+
+## Incoming events on agent and provider cards
+
+At the top of each agent/provider card, **Card ID** identifies that particular
+canvas node. **Agent ID** identifies the selected agent-key record; it is not the
+API key value. **Provider ID** identifies a selected generation binding. A model
+name is shown only when the backend supplies an actual configured model.
+
+**Incoming events** configures a signed receiver for that card. Enter a matching
+command and review the saved instructions. With one connected prompt card, the
+dialog edits that existing card; with multiple prompts, edit them separately.
+The card preview uses the backend's effective saved instructions when available,
+including preset instructions. A clearly labeled connected-card fallback is
+shown while effective instructions are unavailable. The final action review
+always comes from the backend and shows the actual destination, instructions
+and context.
+
+**Save disabled** never enables automation. **Review action** prepares a review
+bound to this rule and revision; the explicit checkbox and **Enable reviewed
+action** authorize matching events. Changes to the rule, workflow or authority
+can require a new review. **Disable** stops new accepted runs. Rotating the
+signing secret disables the rule and invalidates the previous secret. The new
+secret appears once, is cleared from the dialog on close, and is never embedded
+in the public URL. Reopen settings to inspect the command/status; rotate if the
+signing secret was lost.
+
+The sender must implement GoRun's [signed command protocol](CANVAS-INBOUND-WEBHOOKS.md).
+A URL or endpoint ID alone cannot authorize a request, and arbitrary webhook
+provider payloads are not accepted. Accepted events queue the reviewed canvas
+action and its private note result; they do not publish content. An external
+named agent requires its MCP client to remain running and poll for work.
+**Enabled** describes the event rule, not an online or verified agent.
+
+Structural workflow templates do not copy receivers, signing secrets, enabled
+rules or consent. Configure and review a new receiver for each reused workflow.

diff --git a/README.ar.md b/README.ar.md
@@ -76,6 +76,8 @@ If a tool requests approval, report its request ID and wait for the decision.
 - **تكرار دوري بعد المراجعة.** الجدولة كل ساعة أو يوم أو أسبوع تبدأ معطّلة، وتحتاج تفعيلًا صريحًا، وتعيد التحقق من الصلاحيات في كل تشغيل.
 - **صلاحيات صريحة للوكلاء.** أنت تحدد العناصر التي يستطيع كل وكيل قراءتها أو الإضافة إليها أو التشغيل عليها في كل لوحة.
 
+تعرض بطاقة الوكيل أو المزود معرّفها وهوية الوكيل أو المزود المختار، مع رابط استقبال لحدث موقّع يطابق الأمر المحفوظ والتعليمات التي راجعتها. تبدأ قواعد الأحداث الواردة غير مفعلة، وتحتاج إلى مراجعة وتفعيل صريحين. ويظل الوكيل الخارجي بحاجة إلى عميل MCP يعمل لديه. [إعداد أحداث اللوحة](docs/CANVASES.md#incoming-events-on-agent-and-provider-cards).
+
 #### قصة حملة من الفكرة إلى المراجعة
 
 **١. حدد السياق.** اجمع قصة المنتج المعتمدة وتعليمات الحملة بالعربية والإنجليزية، واربط البطاقات المطلوبة فقط بالوكيل المسمّى.

diff --git a/README.md b/README.md
@@ -94,6 +94,8 @@ Connect an MCP client with an **AI agent** key. Its scopes are bounded by its ow
 
 Canvases bring selected content, instructions and agent results into one workspace. Results become private notes for review and do not publish content automatically. Configure your provider or agent connection before running it.
 
+Each agent or provider card shows its own ID and selected agent/provider identity, with a signed webhook matched to a saved command and reviewed instructions. Incoming-event rules start disabled and require explicit review and enablement; external agents still need their MCP client running. [Configure canvas events](docs/CANVASES.md#incoming-events-on-agent-and-provider-cards).
+
 ### A campaign, from brief to review
 
 **1. Choose the context.** Bring an approved product story and a bilingual campaign brief onto the canvas. Connect only those cards to your named assistant.
